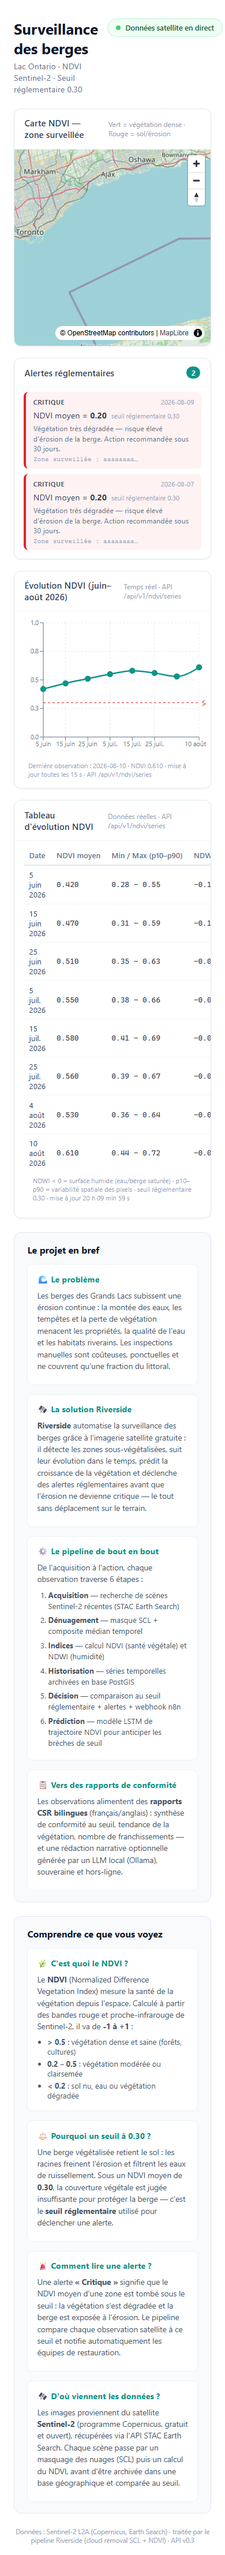
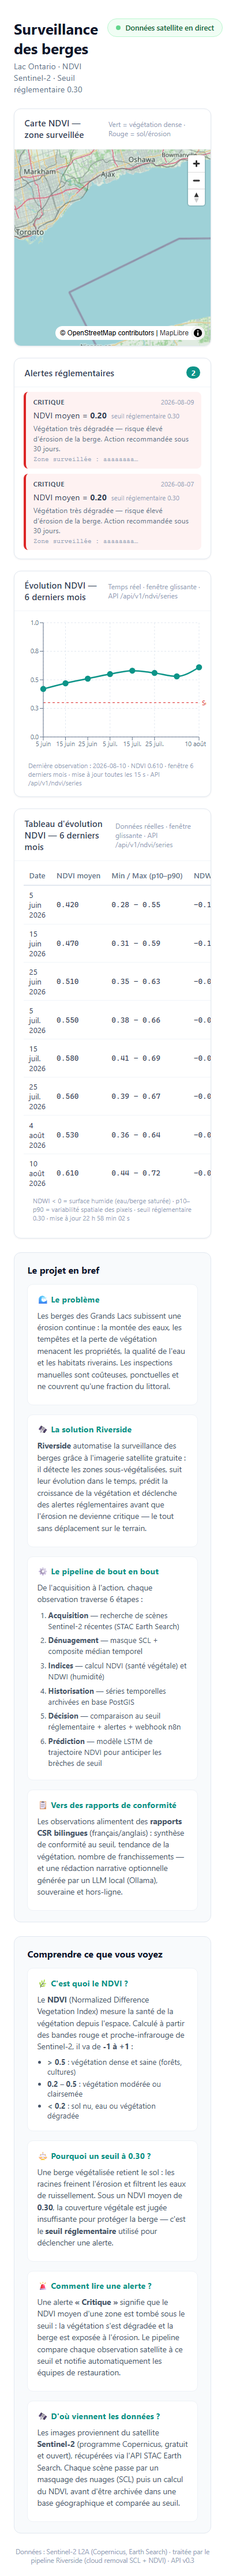
feat(api+web): fenêtre glissante 6 mois — graphique et tableau s'ajustent automatiquement aux données récentes
- api : /api/v1/ndvi/series?months=N (défaut 6) — filtre SQL observed_at >= aujourd'hui−N mois, renvoie from_date + months
- web : titres 'Évolution NDVI — 6 derniers mois' + 'Tableau d'évolution NDVI — 6 derniers mois' (dynamiques)
- web : graphique et tableau passent months=6, polling 15s conservé — les données s'alignent sur la fenêtre
- fix : date.today() → datetime.now(timezone.utc).date() (ruff DTZ011)
- tests : +1 (fenêtre glissante : point ancien exclu) — suite à 47
- captures : régénérées (fenêtre 6 mois)

diff --git a/web/e2e/verify.spec.ts b/web/e2e/verify.spec.ts
@@ -1,26 +1,24 @@
 import { test, expect } from "@playwright/test";
 
-/** Vérification du layout : graphique + tableau côte à côte, données API. */
-test("graphique et tableau côte à côte avec données temps réel", async ({ page }) => {
+/** Vérification : fenêtre 6 mois, graphique + tableau alignés sur les données réelles. */
+test("les panneaux affichent les 6 derniers mois en temps réel", async ({ page }) => {
   await page.goto("/", { waitUntil: "networkidle" });
   await page.waitForTimeout(3000);
 
-  // Les deux panneaux sont côte à côte dans .data-row
-  const dataRow = page.locator(".data-row");
-  await expect(dataRow).toBeVisible();
-  const panels = await dataRow.locator("> section.panel").count();
-  expect(panels).toBe(2);
+  // Titres avec fenêtre glissante
+  await expect(page.getByRole("heading", { name: "Évolution NDVI — 6 derniers mois", exact: true })).toBeVisible();
+  await expect(page.getByRole("heading", { name: "Tableau d'évolution NDVI — 6 derniers mois" })).toBeVisible();
 
-  // Graphique (SVG recharts)
+  // Graphique (SVG)
   await expect(page.locator(".data-row .recharts-wrapper svg")).toHaveCount(1);
 
-  // Tableau avec lignes de données
+  // Tableau : 8 lignes (données des 6 derniers mois en base)
   const rows = await page.locator(".ndvi-table tbody tr").count();
   expect(rows).toBeGreaterThanOrEqual(7);
 
-  // Indicateur de mise à jour temps réel
-  const caption = await page.locator(".ndvi-table ~ .chart-caption, .chart-caption").last().textContent();
-  expect(caption).toContain("mise à jour");
+  // Fenêtre indiquée dans la légende du graphique
+  const caption = await page.locator(".chart-caption").first().textContent();
+  expect(caption).toContain("6 derniers mois");
 
-  console.log("LAYOUT_OK:", { panneaux: panels, lignes: rows, caption: caption?.slice(0, 80) });
+  console.log("FENETRE_OK:", { lignes: rows, caption: caption?.slice(0, 70) });
 });

diff --git a/web/app/page.tsx b/web/app/page.tsx
@@ -78,18 +78,18 @@ export default async function DashboardPage() {
         <div className="data-row">
           <section className="panel" aria-labelledby="serie-titre">
             <div className="panel-head">
-              <h2 id="serie-titre">Évolution NDVI (juin–août 2026)</h2>
-              <span className="legend-note">Temps réel · API /api/v1/ndvi/series</span>
+              <h2 id="serie-titre">Évolution NDVI — 6 derniers mois</h2>
+              <span className="legend-note">Temps réel · fenêtre glissante · API /api/v1/ndvi/series</span>
             </div>
-            <NdviSeriesChart aoiId="aaaaaaaa-aaaa-4aaa-8aaa-aaaaaaaaaaaa" />
+            <NdviSeriesChart aoiId="aaaaaaaa-aaaa-4aaa-8aaa-aaaaaaaaaaaa" months={6} />
           </section>
 
           <section className="panel" aria-labelledby="table-titre">
             <div className="panel-head">
-              <h2 id="table-titre">Tableau d'évolution NDVI</h2>
-              <span className="legend-note">Données réelles · API /api/v1/ndvi/series</span>
+              <h2 id="table-titre">Tableau d'évolution NDVI — 6 derniers mois</h2>
+              <span className="legend-note">Données réelles · fenêtre glissante · API /api/v1/ndvi/series</span>
             </div>
-            <NdviTable aoiId="aaaaaaaa-aaaa-4aaa-8aaa-aaaaaaaaaaaa" />
+            <NdviTable aoiId="aaaaaaaa-aaaa-4aaa-8aaa-aaaaaaaaaaaa" months={6} />
           </section>
         </div>
 

diff --git a/web/components/NdviSeriesChart.tsx b/web/components/NdviSeriesChart.tsx
@@ -17,14 +17,14 @@ const DEFAULT_THRESHOLD = 0.3;
 const REFRESH_MS = 15_000; // rafraîchissement temps réel / live refresh
 
 /** Série temporelle NDVI — alimentée par l'API, rafraîchie en temps réel. */
-export function NdviSeriesChart({ aoiId }: { aoiId: string }) {
+export function NdviSeriesChart({ aoiId, months = 6 }: { aoiId: string; months?: number }) {
   const [data, setData] = useState<NdviSeriesResponse | null>(null);
   const [loadError, setLoadError] = useState(false);
 
   useEffect(() => {
     let cancelled = false;
     const load = () =>
-      fetchNdviSeries(aoiId)
+      fetchNdviSeries(aoiId, months)
         .then((d) => {
           if (!cancelled) {
             setData(d);
@@ -40,7 +40,7 @@ export function NdviSeriesChart({ aoiId }: { aoiId: string }) {
       cancelled = true;
       clearInterval(timer);
     };
-  }, [aoiId]);
+  }, [aoiId, months]);
 
   if (loadError) {
     return (
@@ -104,7 +104,7 @@ export function NdviSeriesChart({ aoiId }: { aoiId: string }) {
       </ResponsiveContainer>
       <p className="chart-caption">
         Dernière observation : {last.date} · NDVI {last.ndvi_mean.toFixed(3)} ·
-        mise à jour toutes les 15 s · API /api/v1/ndvi/series
+        fenêtre {months} derniers mois · mise à jour toutes les 15 s · API /api/v1/ndvi/series
       </p>
     </div>
   );

diff --git a/web/components/NdviTable.tsx b/web/components/NdviTable.tsx
@@ -14,7 +14,7 @@ function statusOf(mean: number): { label: string; className: string } {
 }
 
 /** Tableau d'évolution NDVI documenté / documented NDVI evolution table. */
-export function NdviTable({ aoiId }: { aoiId: string }) {
+export function NdviTable({ aoiId, months = 6 }: { aoiId: string; months?: number }) {
   const [points, setPoints] = useState<NdviSeriesPoint[] | null>(null);
   const [error, setError] = useState<string | null>(null);
   const [lastUpdate, setLastUpdate] = useState<Date | null>(null);
@@ -22,7 +22,7 @@ export function NdviTable({ aoiId }: { aoiId: string }) {
   useEffect(() => {
     let cancelled = false;
     const load = () =>
-      fetchNdviSeries(aoiId)
+      fetchNdviSeries(aoiId, months)
         .then((d) => {
           if (!cancelled) {
             setPoints(d.series);
@@ -39,7 +39,7 @@ export function NdviTable({ aoiId }: { aoiId: string }) {
       cancelled = true;
       clearInterval(timer);
     };
-  }, [aoiId]);
+  }, [aoiId, months]);
 
   if (error !== null) {
     return (

diff --git a/web/lib/api.ts b/web/lib/api.ts
@@ -57,14 +57,19 @@ export interface NdviSeriesPoint {
 export interface NdviSeriesResponse {
   aoi_id: string;
   threshold: number;
+  months?: number;
+  from_date?: string;
   count: number;
   series: NdviSeriesPoint[];
 }
 
-/** Série temporelle NDVI d'une AOI / NDVI series for one AOI. */
-export async function fetchNdviSeries(aoiId: string): Promise<NdviSeriesResponse> {
+/** Série temporelle NDVI d'une AOI sur les N derniers mois (défaut 6). */
+export async function fetchNdviSeries(
+  aoiId: string,
+  months = 6,
+): Promise<NdviSeriesResponse> {
   const res = await fetch(
-    `${API_URL}/api/v1/ndvi/series?aoi_id=${encodeURIComponent(aoiId)}`,
+    `${API_URL}/api/v1/ndvi/series?aoi_id=${encodeURIComponent(aoiId)}&months=${months}`,
     { cache: "no-store" },
   );
   if (!res.ok) {

diff --git a/src/api/ndvi_router.py b/src/api/ndvi_router.py
@@ -2,10 +2,12 @@
 
 EN: NDVI time-series router. Exposes the historical NDVI series of an AOI to
 the dashboard (graphique « Évolution NDVI »). Lit la table ndvi_series (source
-de vérité : migration 001) — contrairement au fichier statique de mise en page.
+de vérité : migration 001). Fenêtre glissante : `months` limite aux N derniers
+mois (défaut 6) — le dashboard s'ajuste automatiquement aux données récentes.
 """
 from __future__ import annotations
 
+from datetime import date, datetime, timezone
 from typing import Annotated, Any
 from uuid import UUID
 
@@ -23,21 +25,32 @@ router = APIRouter(prefix="/api/v1/ndvi", tags=["ndvi"])
 @router.get("/series")
 def ndvi_series(
     aoi_id: Annotated[UUID, Query(description="UUID de l'AOI")],
-    limit: Annotated[int, Query(ge=1, le=1000)] = 100,
+    months: Annotated[int, Query(ge=1, le=24, description="Fenêtre glissante (mois)")] = 6,
+    limit: Annotated[int, Query(ge=1, le=1000)] = 200,
 ) -> dict[str, Any]:
-    """Série temporelle NDVI d'une AOI, ordre chronologique.
+    """Série temporelle NDVI d'une AOI sur les N derniers mois.
 
-    EN: Chronological NDVI series for one AOI. 404 si aucune donnée.
+    EN: Chronological NDVI series for one AOI over the last N months (sliding
+    window). 400 si aucune donnée dans la fenêtre.
     """
     engine = get_engine()
+    # Fenêtre glissante : from_date = aujourd'hui (UTC) − N mois
+    today = datetime.now(timezone.utc).date()
+    year = today.year
+    month = today.month - months
+    while month <= 0:
+        month += 12
+        year -= 1
+    from_date = date(year, month, 1)
+
     with engine.connect() as conn:
         rows = conn.execute(
             text(
                 "SELECT observed_at, ndvi_mean, ndvi_p10, ndvi_p90, ndwi_mean "
-                "FROM ndvi_series WHERE aoi_id = :a "
+                "FROM ndvi_series WHERE aoi_id = :a AND observed_at >= :from_date "
                 "ORDER BY observed_at ASC LIMIT :limit"
             ),
-            {"a": str(aoi_id), "limit": limit},
+            {"a": str(aoi_id), "from_date": from_date, "limit": limit},
         ).mappings().all()
 
     points = []
@@ -57,14 +70,16 @@ def ndvi_series(
 
     if not points:
         raise ValueError(
-            f"Aucune série NDVI pour {aoi_id} / no NDVI series found — "
-            "lancez l'ingestion réelle (STAC → NDVI → ndvi_series)"
+            f"Aucune série NDVI pour {aoi_id} sur les {months} derniers mois "
+            f"/ no NDVI series in the last {months} months — lancez l'ingestion réelle"
         )
 
-    log.info("ndvi_series_served", aoi=str(aoi_id), n=len(points))
+    log.info("ndvi_series_served", aoi=str(aoi_id), n=len(points), months=months)
     return {
         "aoi_id": str(aoi_id),
         "threshold": settings.ndvi_alert_threshold,
+        "months": months,
+        "from_date": from_date.isoformat(),
         "count": len(points),
         "series": points,
     }

diff --git a/tests/test_ndvi_router.py b/tests/test_ndvi_router.py
@@ -62,3 +62,26 @@ def test_ndvi_series_invalid_uuid_422(tmp_path, monkeypatch) -> None:
     client = TestClient(app)
     r = client.get("/api/v1/ndvi/series?aoi_id=pas-un-uuid")
     assert r.status_code == 422  # validation pydantic UUID
+
+
+def test_ndvi_series_months_window(tmp_path, monkeypatch) -> None:
+    """La fenêtre glissante filtre les observations hors des N derniers mois."""
+    url = f"sqlite:///{tmp_path}/ndvi_months.db"
+    monkeypatch.setattr(settings, "database_url", url)
+    get_engine.cache_clear()
+    engine = get_engine()
+    metadata.create_all(engine)
+    # Points récents (dans la fenêtre 6 mois)
+    save_ndvi_series(engine, AOI, date(2026, 7, 1), {"ndvi_mean": 0.42})
+    save_ndvi_series(engine, AOI, date(2026, 7, 15), {"ndvi_mean": 0.58})
+    # Point ancien (hors fenêtre 6 mois depuis 2026-08)
+    save_ndvi_series(engine, AOI, date(2025, 1, 10), {"ndvi_mean": 0.30})
+
+    client = TestClient(app)
+    r = client.get(f"/api/v1/ndvi/series?aoi_id={AOI}&months=6")
+    assert r.status_code == 200
+    body = r.json()
+    assert body["months"] == 6
+    # Seuls les 2 points de juillet 2026 sont dans la fenêtre
+    assert body["count"] == 2
+    assert all(p["date"].startswith("2026-07") for p in body["series"])
